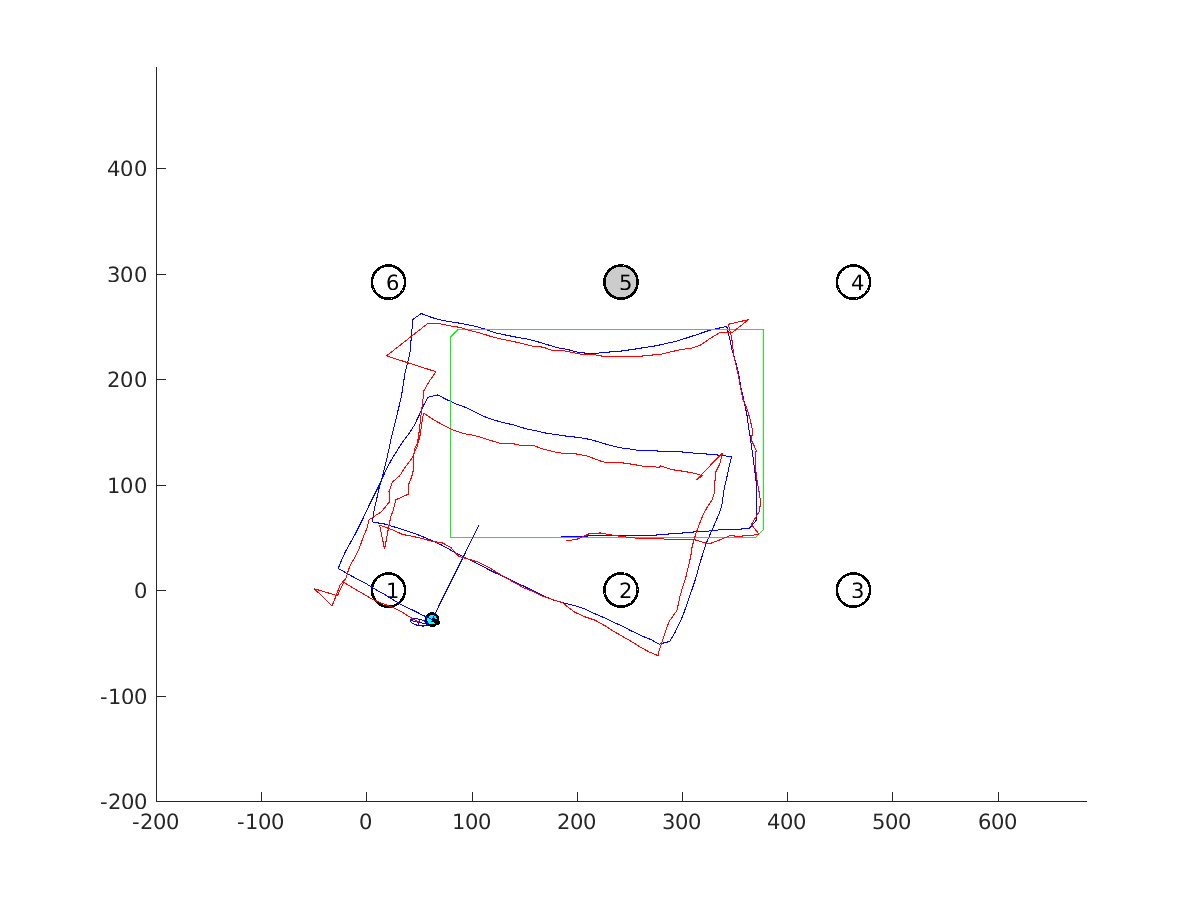
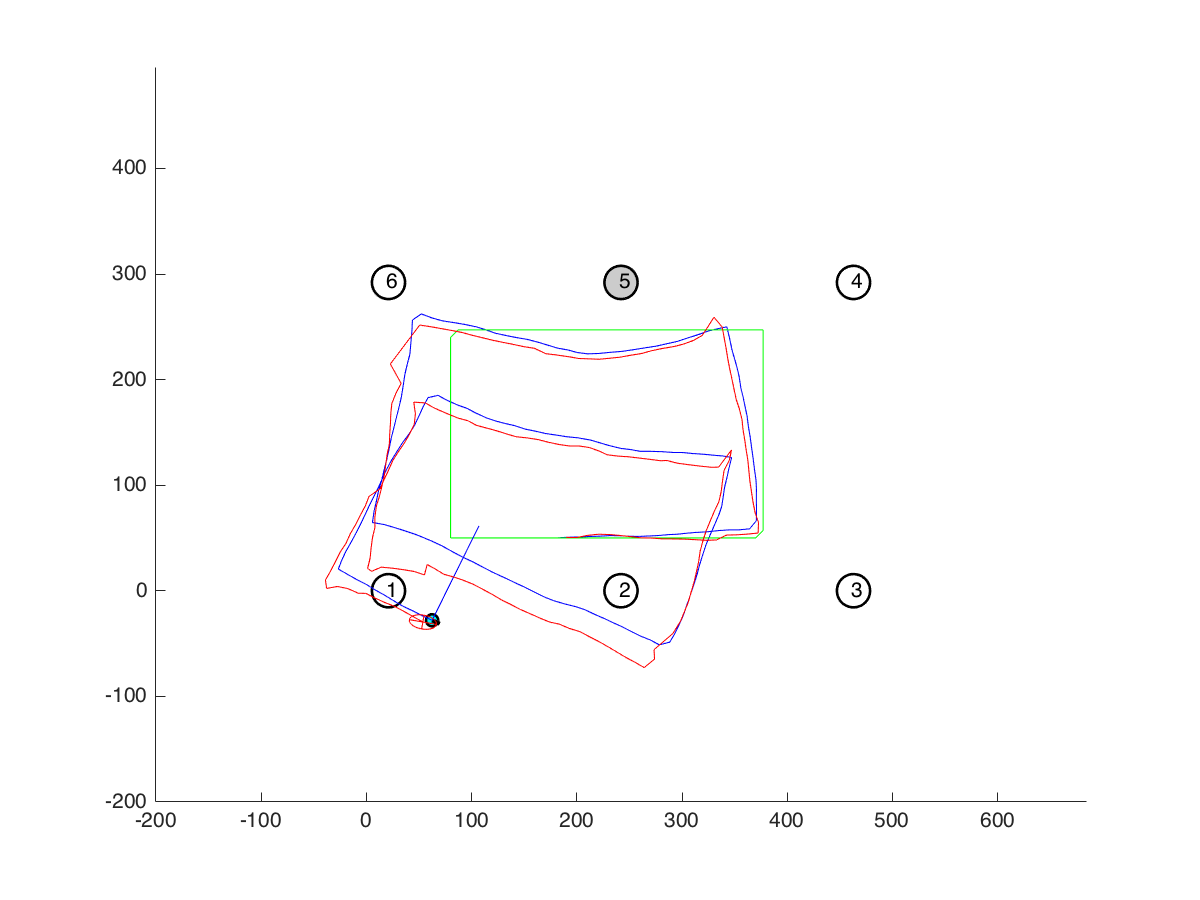
Almost working, still small error around turns. About to refactor

diff --git a/Homework 2/ekfUpdate.m b/Homework 2/ekfUpdate.m
@@ -51,6 +51,8 @@ predMu  = g(mu, u);
 % finite difference
 h = 1e-7;
 % h = 0.1;
+
+
 %% Produce G
 muDelx = [  Pos_prev_x + h
             Pos_prev_y
@@ -71,8 +73,8 @@ G1 = zeros(3, 1);
 G2 = zeros(3, 1);
 G3 = zeros(3, 1);
 
-% example for first col, changing x
-for i = [1:2]
+% first col, changing x
+for i = 1:2
     n_0 = predMu(i);
     n_1 = predMuDelX(i);
     dn = n_1 - n_0;
@@ -85,8 +87,8 @@ dtheta = minimizedAngle(theta_1 - theta_0);
 
 G1(3) = dtheta / h;
   
-% example for second col, changing y
-for i = [1:2]
+% second col, changing y
+for i = 1:2
     n_0 = predMu(i);
     n_1 = predMuDelY(i);
     dn = n_1 - n_0;
@@ -99,8 +101,8 @@ dtheta = minimizedAngle(theta_1 - theta_0);
 
 G2(3) = dtheta / h;
 
-% example for third col, changing theta
-for i = [1:2]
+% third col, changing theta
+for i = 1:2
     n_0 = predMu(i);
     n_1 = predMuDelTheta(i);
     dn = n_1 - n_0;
@@ -136,7 +138,7 @@ preduDelY = prediction(mu, uDely);
 preduDelTheta = prediction(mu, uDeltheta);
 
 % first col, changing x
-for i = [1:2]
+for i = 1:2
     n_0 = predMu(i);
     n_1 = preduDelX(i);
     dn = n_1 - n_0;
@@ -212,7 +214,7 @@ H = [ delbDelx delbDely delbDeltheta ];
 
 Q =  [  [filterBeta(1).^ 2 0
             0               0]  ];
-Q = filterBeta(1)^2;
+Q = filterBeta(1);
 
 S = H * sigmaHat * transpose(H) + Q;
 

diff --git a/Homework 2/run.m b/Homework 2/run.m
@@ -188,7 +188,7 @@ for t = 1:numSteps
     
      % You might want to plot the mean/co-variance here
      figure(GLOBAL_FIGURE);
-     plotcov2d(mu(1),mu(2), sigma, 'b', 2);
+     plotcov2d(mu(1),mu(2), sigma, 'r', 2);
      
      %plot([mu(1) mu(1)+cos(zHat(1))*100], [mu(2) mu(2)+sin(zHat(1))*100], 'Color', REAL_PATH_COL);
   end
